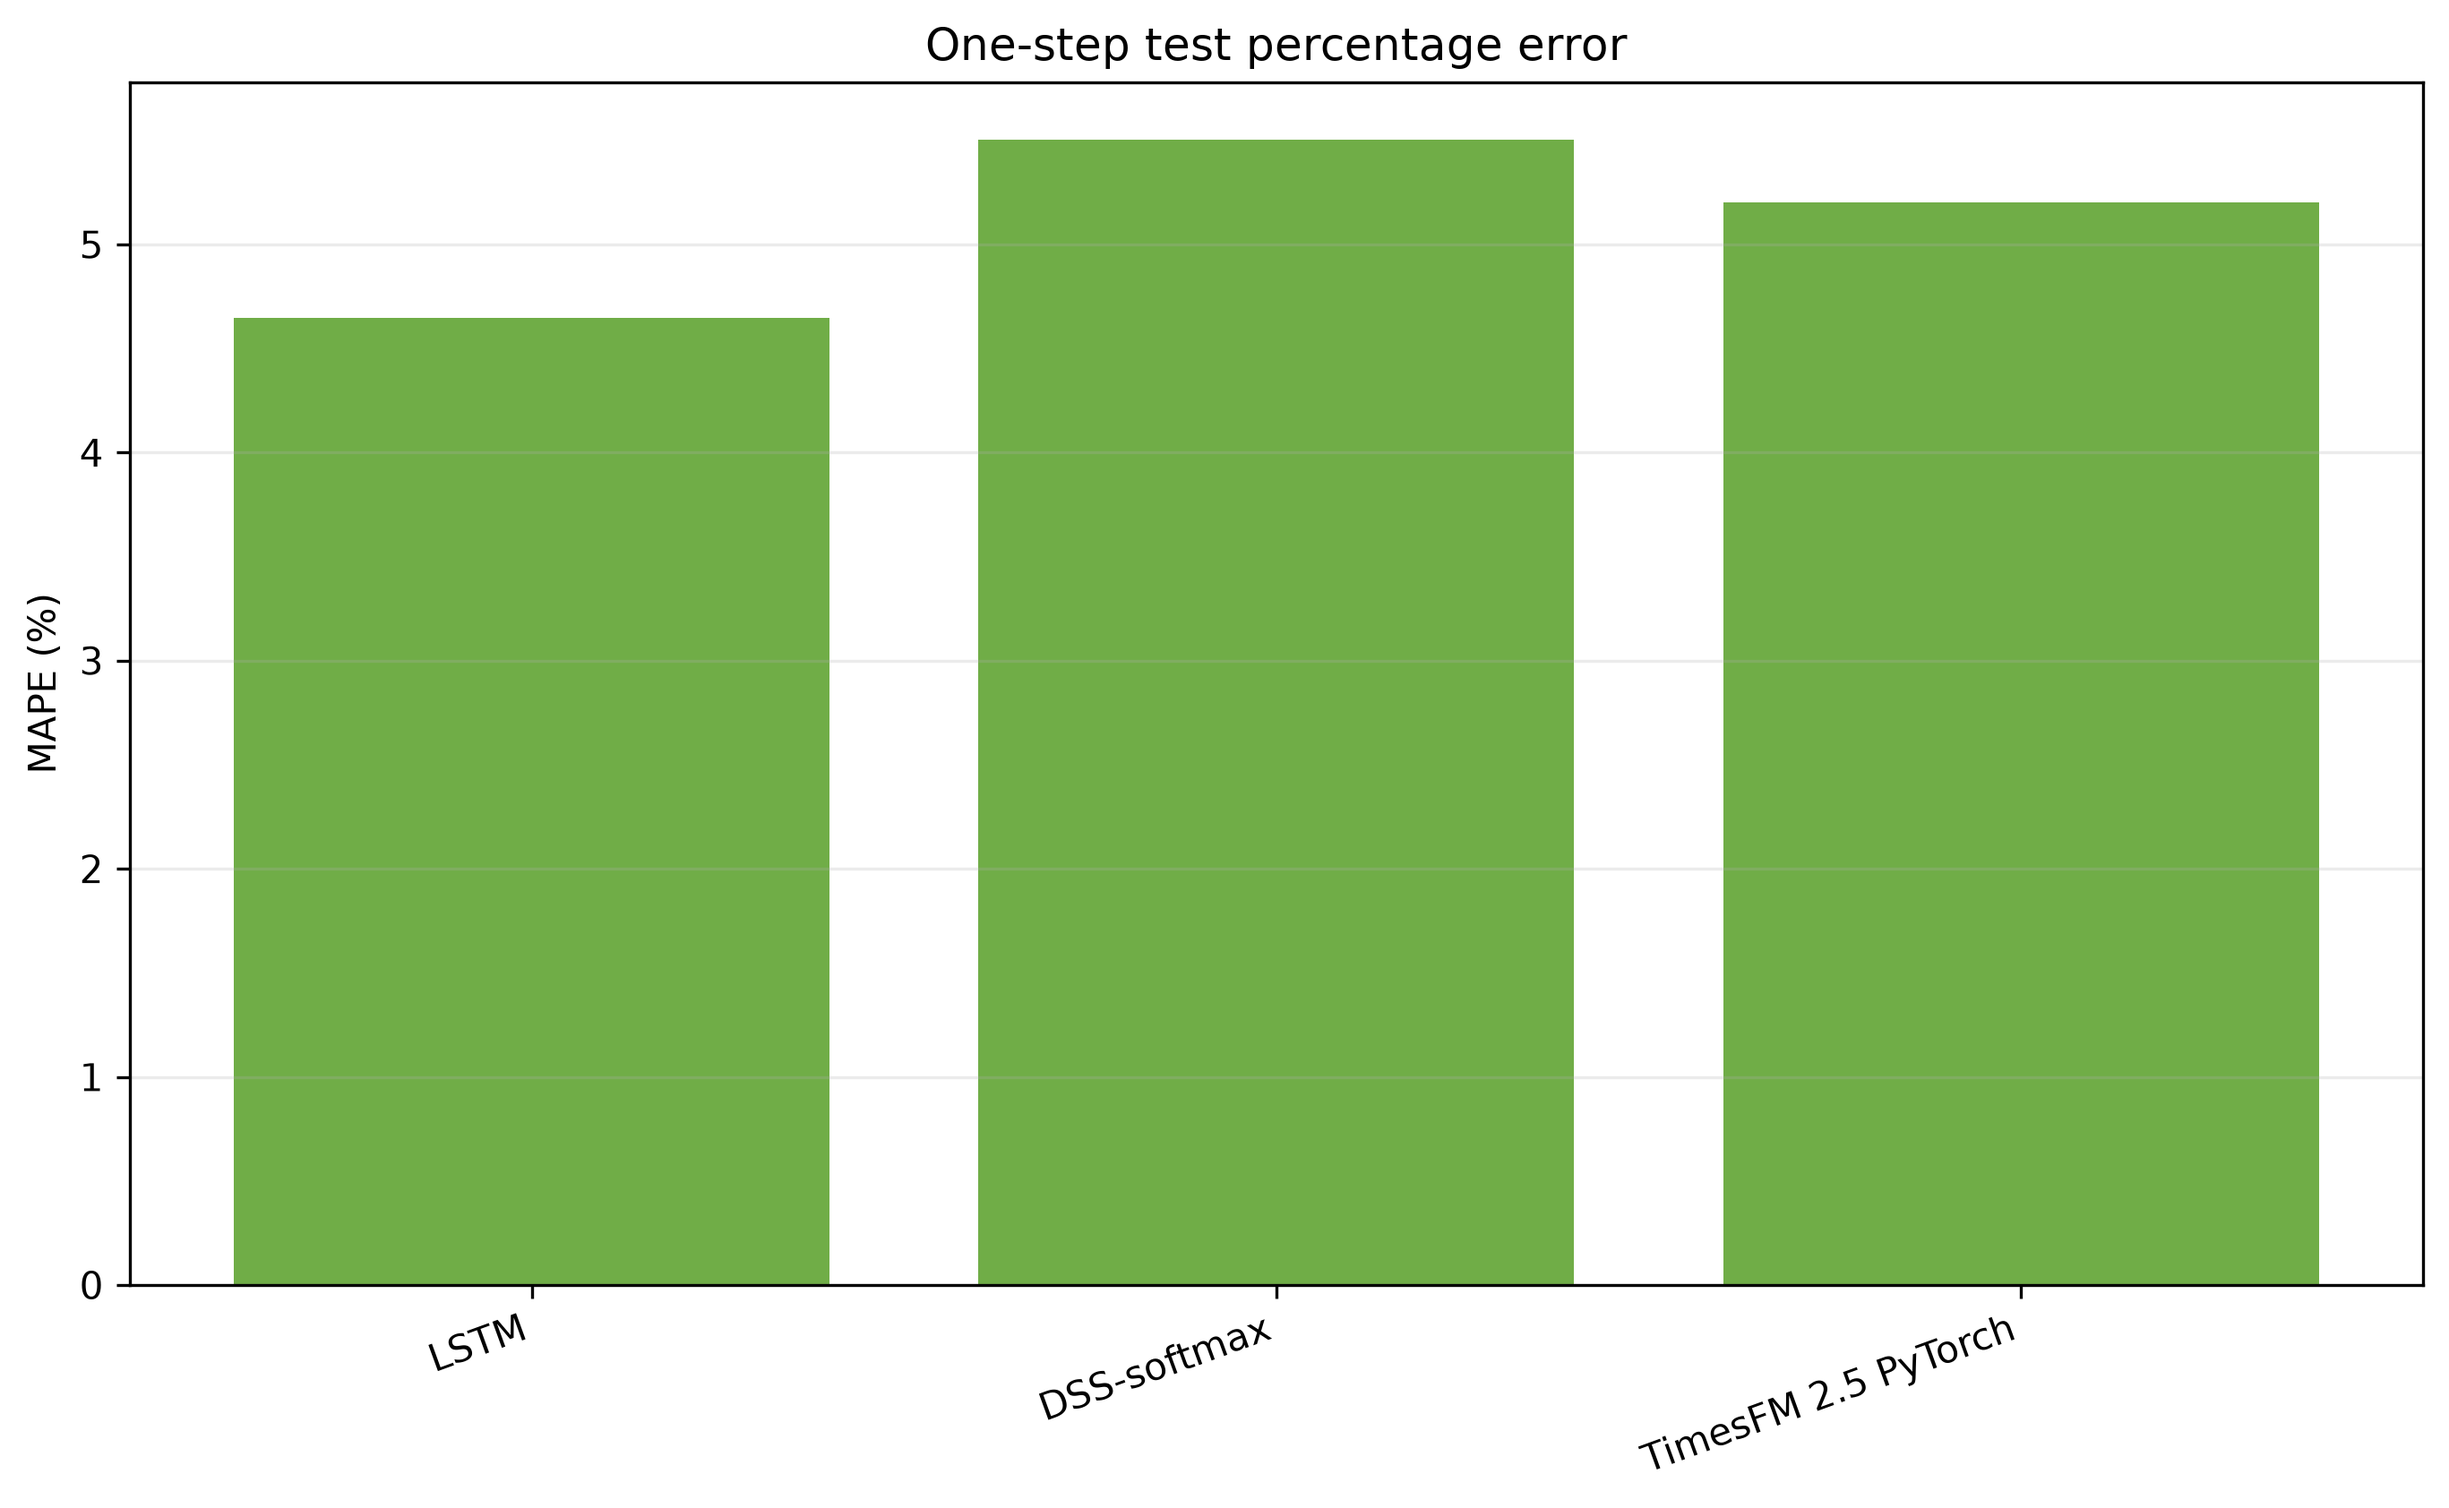
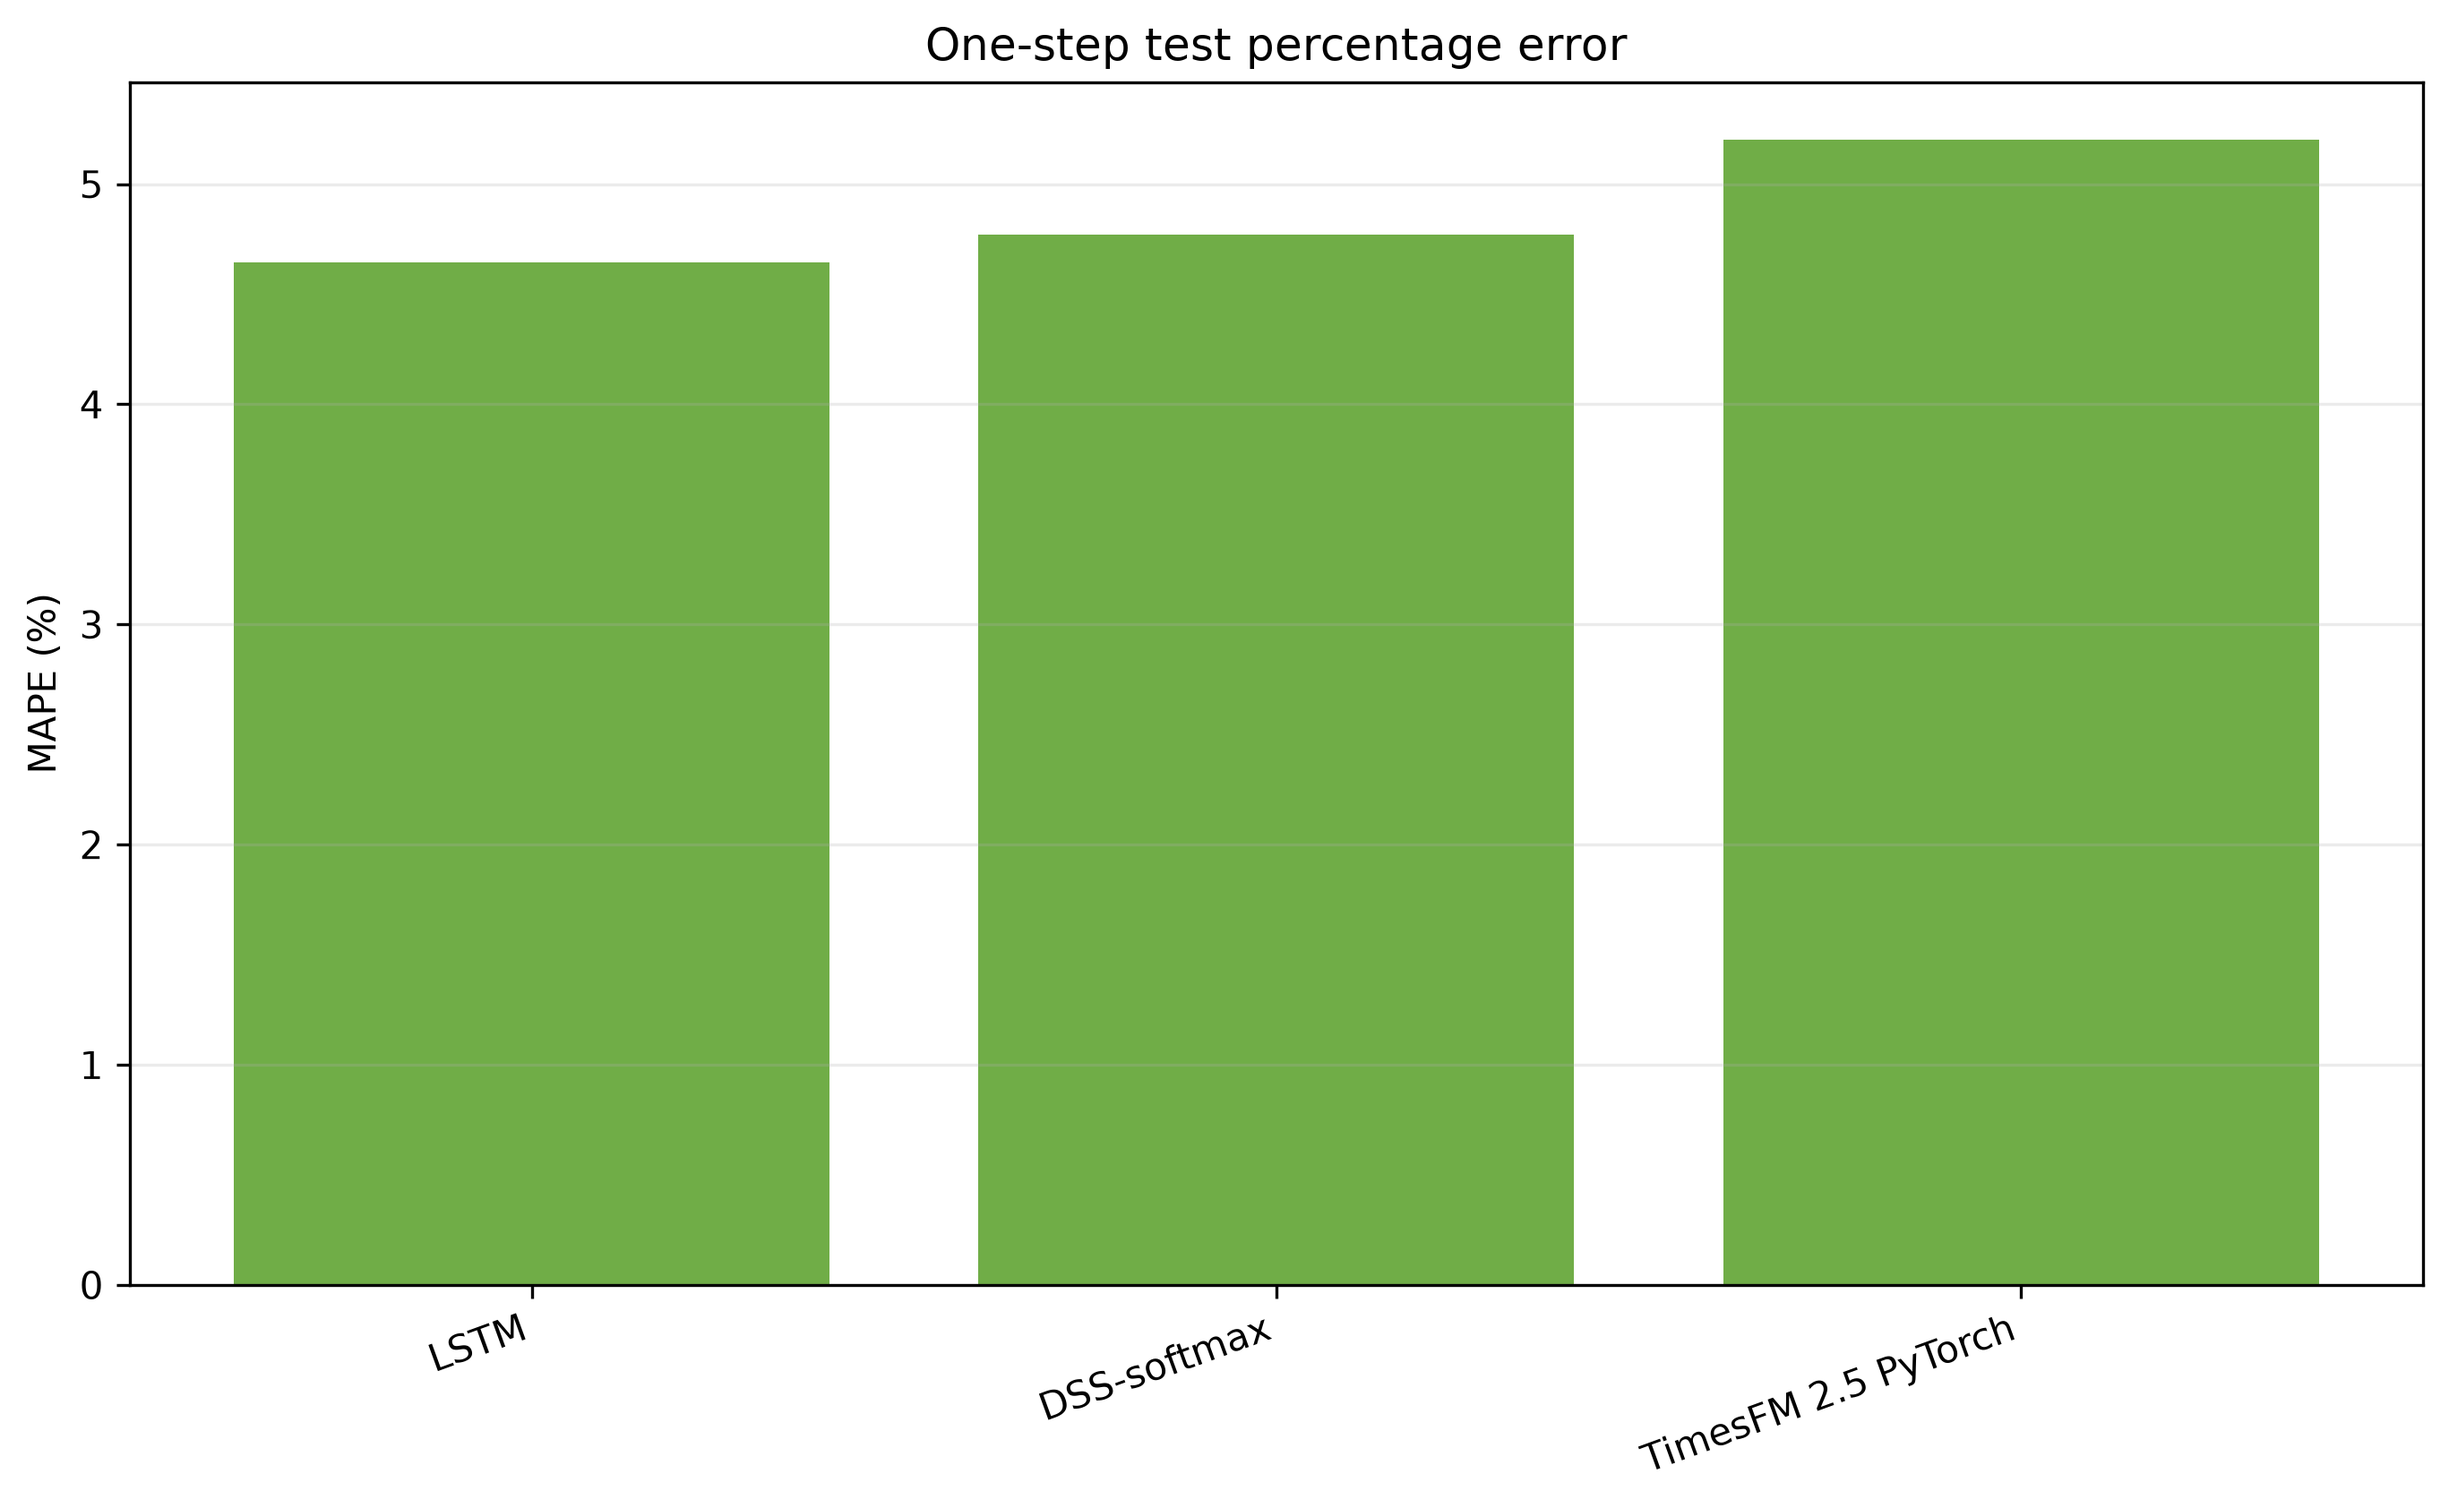
Fix DSS discretization and refresh final results

diff --git a/traffic_experiment.py b/traffic_experiment.py
@@ -1006,6 +1006,45 @@ def _hippo_d_eigenvalues(state_dim: int) -> np.ndarray:
     return np.asarray(eigenvalues[order[:n]], dtype=np.complex64)
 
 
+def dss_softmax_coefficients(
+    eigenvalues: torch.Tensor, dt: torch.Tensor, sequence_length: int
+) -> tuple[torch.Tensor, torch.Tensor]:
+    """Return DSS-softmax transition and input coefficients.
+
+    The canonical length-normalized discretization is
+    ``a = exp(lambda * dt)`` and
+    ``b = (a - 1) / (lambda * (exp(L * lambda * dt) - 1))``.
+    """
+
+    exponent = eigenvalues.unsqueeze(0) * (sequence_length * dt)
+    exponent = torch.complex(
+        exponent.real.clamp(min=-30.0, max=30.0),
+        exponent.imag.clamp(min=-30.0, max=30.0),
+    )
+    denominator = torch.exp(exponent) - 1.0 + 0j
+    denominator = torch.where(
+        denominator.abs() < 1e-7,
+        torch.complex(
+            torch.full_like(denominator.real, 1e-7),
+            torch.zeros_like(denominator.imag),
+        ),
+        denominator,
+    )
+    transition_exponent = eigenvalues.unsqueeze(0) * dt
+    transition_exponent = torch.complex(
+        transition_exponent.real.clamp(min=-30.0, max=30.0),
+        transition_exponent.imag.clamp(min=-30.0, max=30.0),
+    )
+    transition = torch.exp(transition_exponent)
+    safe_lambda = torch.where(
+        eigenvalues.abs() < 1e-7,
+        torch.complex(torch.ones_like(eigenvalues.real), torch.zeros_like(eigenvalues.imag)),
+        eigenvalues,
+    )
+    input_coefficient = (transition - 1.0 + 0j) / safe_lambda.unsqueeze(0) / denominator
+    return transition, input_coefficient
+
+
 class DSSSoftmaxBlock(nn.Module):
     """Canonical DSS-softmax diagonal state-space block.
 
@@ -1015,8 +1054,8 @@ class DSSSoftmaxBlock(nn.Module):
     fixed sequence length ``L`` and hidden channel ``h``:
 
     ``a[h,i] = exp(lambda[i] * dt[h])`` and
-    ``b[h,i] = (a[h,i]-1) * lambda[i] /
-    (exp(L*lambda[i]*dt[h])-1)``.
+    ``b[h,i] = (a[h,i]-1) /
+    (lambda[i] * (exp(L*lambda[i]*dt[h])-1))``.
 
     The state is updated with ``x_i[t] = a*x_i[t-1] + b*u_h[t]`` and the
     layer output is the real part of ``sum_i W[h,i] * x_i[t]``.  This is the
@@ -1054,29 +1093,9 @@ class DSSSoftmaxBlock(nn.Module):
         sequence_length = int(tensor.shape[1])
         eigenvalues = torch.complex(self.lambda_real, self.lambda_imag)
         dt = torch.exp(self.log_dt.clamp(min=-12.0, max=2.0)).unsqueeze(-1)
-        exponent = eigenvalues.unsqueeze(0) * (sequence_length * dt)
-        exponent = torch.complex(
-            exponent.real.clamp(min=-30.0, max=30.0),
-            exponent.imag.clamp(min=-30.0, max=30.0),
+        transition, input_coefficient = dss_softmax_coefficients(
+            eigenvalues, dt, sequence_length
         )
-        denominator = torch.exp(exponent) - 1.0 + 0j
-        denominator = torch.where(
-            denominator.abs() < 1e-7,
-            torch.complex(torch.full_like(denominator.real, 1e-7), torch.zeros_like(denominator.imag)),
-            denominator,
-        )
-        transition_exponent = eigenvalues.unsqueeze(0) * dt
-        transition_exponent = torch.complex(
-            transition_exponent.real.clamp(min=-30.0, max=30.0),
-            transition_exponent.imag.clamp(min=-30.0, max=30.0),
-        )
-        transition = torch.exp(transition_exponent)
-        safe_lambda = torch.where(
-            eigenvalues.abs() < 1e-7,
-            torch.complex(torch.ones_like(eigenvalues.real), torch.zeros_like(eigenvalues.imag)),
-            eigenvalues,
-        )
-        input_coefficient = (transition - 1.0 + 0j) * safe_lambda.unsqueeze(0) / denominator
         weights = torch.complex(self.weight_real, self.weight_imag)
 
         batch_size = int(tensor.shape[0])
@@ -1969,7 +1988,7 @@ def save_efficiency_latex_table(
     lines = [
         r"\begin{table}[htbp]",
         r"\centering",
-        r"\caption{Measured computational records for the common test workload.}",
+        r"\caption{Measured computational records for the common test workload. Process RSS is sampled during each sequential evaluation stage and is not an isolated per-model memory footprint.}",
         r"\label{tab:efficiency_results}",
         r"\begin{tabular}{lrrrr}",
         r"\hline",
@@ -2299,8 +2318,14 @@ def run_experiment(
             context_len=context_len,
             horizon=horizon,
         )
+        timesfm_loader = make_data_loader(
+            prepared.datasets["test"],
+            batch_size=TIMESFM_BATCH_SIZE,
+            shuffle=False,
+            num_workers=num_workers,
+        )
         timesfm_result = _predict_timesfm(
-            timesfm, loaders["test"], prepared.scaler, device=selected_device
+            timesfm, timesfm_loader, prepared.scaler, device=selected_device
         )
         timesfm_parameter_count = timesfm.parameter_count
         metric_rows.append(

diff --git a/tests/test_traffic_experiment.py b/tests/test_traffic_experiment.py
@@ -10,10 +10,13 @@ import torch
 from traffic_experiment import (
     CONTEXT_LEN,
     HORIZON,
+    BATCH_SIZE,
+    TIMESFM_BATCH_SIZE,
     DSSSoftmaxForecaster,
     LSTMForecaster,
     compute_metrics,
     count_parameters,
+    dss_softmax_coefficients,
     portable_path,
     prepare_data,
 )
@@ -52,6 +55,25 @@ class ExperimentContractTests(unittest.TestCase):
             self.assertEqual(tuple(output.shape), (3, HORIZON))
             self.assertGreater(count_parameters(model), 0)
             self.assertTrue(torch.isfinite(output).all())
+
+    def test_protocol_batch_sizes(self) -> None:
+        self.assertEqual(BATCH_SIZE, 64)
+        self.assertEqual(TIMESFM_BATCH_SIZE, 32)
+
+    def test_dss_softmax_discretization_matches_canonical_formula(self) -> None:
+        eigenvalues = torch.tensor([-0.4 + 0.3j, -0.8 + 0.5j], dtype=torch.complex64)
+        dt = torch.tensor([[0.05], [0.1]], dtype=torch.float32)
+        length = 24
+        transition, input_coefficient = dss_softmax_coefficients(
+            eigenvalues, dt, length
+        )
+        expected_transition = torch.exp(eigenvalues.unsqueeze(0) * dt)
+        expected_input = (expected_transition - 1.0) / (
+            eigenvalues.unsqueeze(0)
+            * (torch.exp(eigenvalues.unsqueeze(0) * (length * dt)) - 1.0)
+        )
+        self.assertTrue(torch.allclose(transition, expected_transition, atol=1e-6, rtol=1e-5))
+        self.assertTrue(torch.allclose(input_coefficient, expected_input, atol=1e-6, rtol=1e-5))
 
     def test_metadata_paths_are_portable(self) -> None:
         self.assertEqual(

diff --git a/README.md b/README.md
@@ -60,7 +60,7 @@ Run the full three-model comparison:
 
 The full run trains the two supervised models, evaluates all 6,048 test
 windows, and measures accuracy, parameter counts, training time, inference
-latency, and peak process memory. On CPU it can take several minutes; the
+latency, and peak process memory. On CPU it can take tens of minutes; the
 initial TimesFM checkpoint download can take longer.
 
 ## Recorded results
@@ -96,5 +96,9 @@ Check that the Python sources compile:
 ```
 
 The data directory contains the derived METR-LA five-minute table used by the
-experiment and the retained source weather table. Weather columns are present
-for provenance but are not model inputs in the primary comparison.
+experiment and the retained source weather table. The traffic benchmark is
+attributed to Li et al., *Diffusion Convolutional Recurrent Neural Network:
+Data-Driven Traffic Forecasting* (ICLR 2018). This repository stores a derived
+CSV prepared for the experiment; users should verify the upstream dataset
+terms before redistributing it. Weather columns are present for provenance but
+are not model inputs in the primary comparison.

diff --git a/EXPERIMENT_PROTOCOL.md b/EXPERIMENT_PROTOCOL.md
@@ -84,8 +84,10 @@ under explicit `DSS-inspired` aliases for a separate ablation.
   same optimization regime as the supervised models.
 
 Training time, one-step inference latency per 1,000 test windows, device, and
-peak process memory are recorded in `outputs/efficiency.csv`. Accuracy and
-computational claims must use these records rather than unsupported adjectives.
+peak process memory are recorded in `outputs/efficiency.csv`. Process RSS is
+sampled during each sequential model stage and is not an isolated per-model
+memory footprint. Accuracy and computational claims must use these records
+rather than unsupported adjectives.
 
 ## Outputs
 

diff --git a/outputs/README.md b/outputs/README.md
@@ -6,6 +6,9 @@ not as hand-edited source files.
 
 - `metrics.csv` contains the test metrics, task metadata, and sample counts.
 - `efficiency.csv` contains timing, parameter, device, and memory measurements.
+  Peak RSS is sampled from the whole Python process during each sequential
+  model stage; it is useful as a reproducibility record but is not an isolated
+  per-model memory footprint.
 - `run_metadata.json` records the seed, split boundaries, scaler range, package
   versions, hardware, and model configuration.
 - `figures/` contains the accuracy overview, unit-separated accuracy figures,
